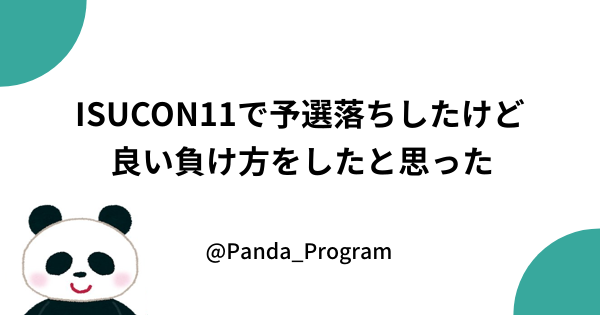
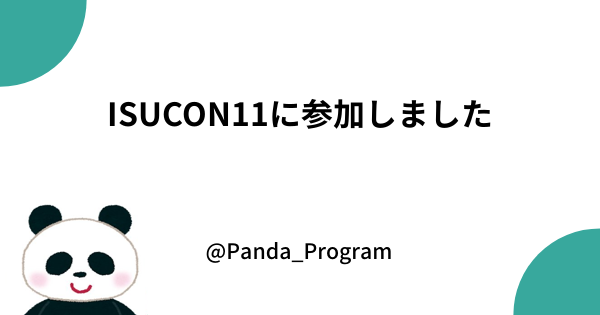
image

Changed region(s): [[0.12, 0.3143, 0.87, 0.4286], [0.18, 0.4571, 0.84, 0.5714]]

diff --git a/content/posts/2021/08/2021-08-24.md b/content/posts/2021/08/2021-08-24.md
@@ -1,5 +1,5 @@
 ---
-title: "ISUCON11で予選落ちしたけど良い負け方をしたと思った"
+title: "ISUCON11に参加しました"
 date: "2021-08-24T23:41:35.000Z"
 updatedAt: ""
 template: "post"
